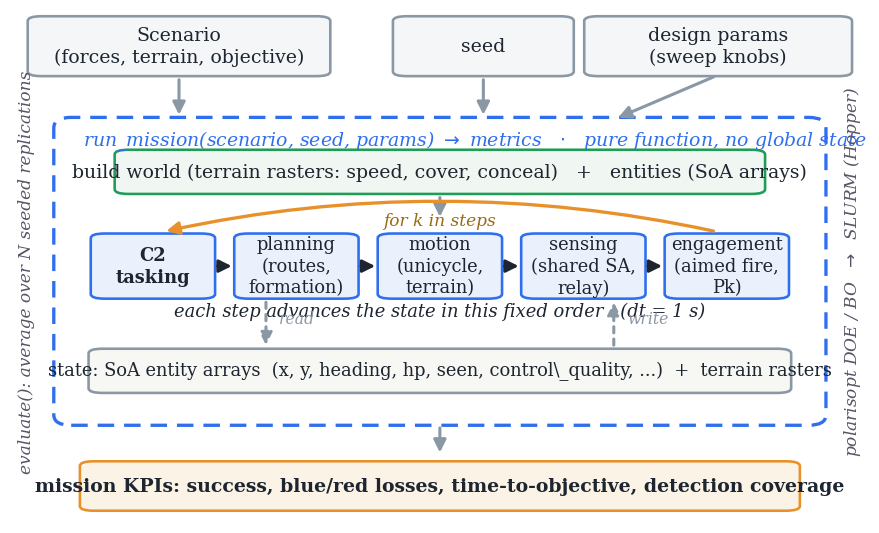
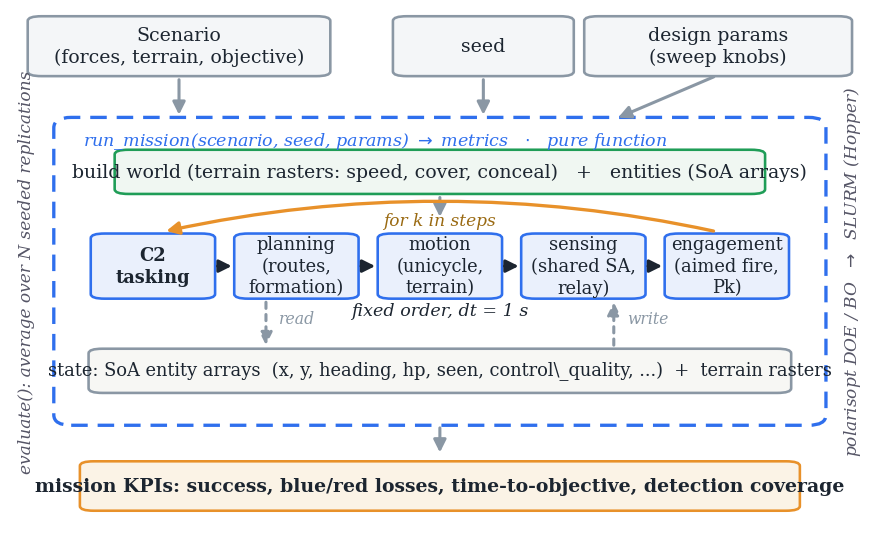
diagrams: fix label overlaps in architecture and command-model figures
- command_model: widen the comms-link and operator boxes so 'comms link' is no
  longer clipped; move request/reply and the EW note into the clear gap between them.
- architecture: shorten the run_mission caption so it clears the right border and the
  SLURM side label; shorten the pipeline caption to 'fixed order, dt = 1 s' so it no
  longer collides with the read/write arrows.

diff --git a/tools/make_diagrams.py b/tools/make_diagrams.py
@@ -83,9 +83,8 @@ def fig_architecture() -> None:
     wrap = FancyBboxPatch((6, 20), 88, 58, boxstyle="round,pad=0.4,rounding_size=2",
                           fc="none", ec=BLUE, lw=1.4, linestyle=(0, (5, 3)))
     ax.add_patch(wrap)
-    ax.text(9, 74, r"run_mission(scenario, seed, params) $\rightarrow$ metrics   "
-                   r"$\cdot$   pure function, no global state",
-            fontsize=8, style="italic", color=BLUE, ha="left", va="center")
+    ax.text(9, 74, r"run_mission(scenario, seed, params) $\rightarrow$ metrics   $\cdot$   pure function",
+            fontsize=7.4, style="italic", color=BLUE, ha="left", va="center")
 
     for x0 in (20, 55, 82):
         _arrow(ax, x0, 86.5, x0 if x0 != 82 else 70, 78, color=EDGE)
@@ -109,8 +108,8 @@ def fig_architecture() -> None:
         _box(ax, x, 50, 13.5, 12, label, fc=fc, ec=BLUE, fs=7.6, bold=(i == 0))
         if i < 4:
             _arrow(ax, x + 6.9, 50, xs[i + 1] - 6.9, 50, color=INK)
-    ax.text(50, 41.5, "each step advances the state in this fixed order   (dt = 1 s)",
-            ha="center", va="center", fontsize=7.6, color=INK, style="italic")
+    ax.text(50, 41.5, "fixed order, dt = 1 s", ha="center", va="center", fontsize=7.4,
+            color=INK, style="italic")
 
     # loop-back arrow (flat arc just above the pipeline row, clears the build-world box)
     _arrow(ax, 82, 56.5, 18, 56.5, color=AMBER, lw=1.4, rad=0.11)
@@ -155,19 +154,20 @@ def fig_command_model() -> None:
              fontweight="bold", color=BLUE)
     # agents
     for j, y in enumerate(np.linspace(78, 30, 4)):
-        _box(axd, 15, y, 16, 8, f"agent {j+1}", fc="#eaf0fc", ec=BLUE, fs=7.2)
-    # link
-    _box(axd, 50, 54, 20, 15, "comms link\nlatency $\\ell$\ndrop $p$", fc=FILL_WRAP, ec=AMBER, fs=7.4)
-    axd.text(50, 43.5, "EW degrades the link", ha="center", fontsize=6.8, color=RED, style="italic")
+        _box(axd, 14, y, 15, 8, f"agent {j+1}", fc="#eaf0fc", ec=BLUE, fs=7.2)
+    # comms link (wider box so the label is not clipped)
+    _box(axd, 46, 54, 23, 16, "comms link\nlatency $\\ell$\ndrop $p$", fc=FILL_WRAP, ec=AMBER, fs=7.0)
     # operator server
-    _box(axd, 85, 54, 20, 16, "operator\n(single server,\nrate $\\mu$)", fc="#fdeef0", ec=RED, fs=7.4, bold=True)
-    # request / reply arrows
+    _box(axd, 83, 54, 23, 16, "operator\n(single server,\nrate $\\mu$)", fc="#fdeef0", ec=RED, fs=7.0, bold=True)
+    # agent -> link requests
     for y in np.linspace(78, 30, 4):
-        _arrow(axd, 23, y, 40, 54, color=EDGE, lw=0.9, rad=0.12)
-    _arrow(axd, 60, 58, 75, 58, color=INK, lw=1.1)     # to operator
-    _arrow(axd, 75, 50, 60, 50, color=INK, lw=1.1)     # reply back
-    axd.text(67, 61, "request", fontsize=6.6, color="#556", ha="center")
-    axd.text(67, 46.5, "reply", fontsize=6.6, color="#556", ha="center")
+        _arrow(axd, 22, y, 33, 54, color=EDGE, lw=0.9, rad=0.12)
+    # request / reply, in the clear gap between the two boxes
+    _arrow(axd, 58.5, 58, 70.5, 58, color=INK, lw=1.1)   # request to operator
+    _arrow(axd, 70.5, 50, 58.5, 50, color=INK, lw=1.1)   # reply back
+    axd.text(64.5, 62.5, "request", fontsize=6.6, color="#556", ha="center")
+    axd.text(64.5, 45.6, "reply", fontsize=6.6, color="#556", ha="center")
+    axd.text(46, 41, "EW degrades the link", ha="center", fontsize=6.8, color=RED, style="italic")
     # quality outcomes
     axd.text(50, 20, "resulting control quality", ha="center", fontsize=7.4, style="italic", color=INK)
     axd.text(50, 13.5, "serviced in time: $q_{op}$  ·  waiting: $q_{stall}$", ha="center", fontsize=7.2, color=INK)